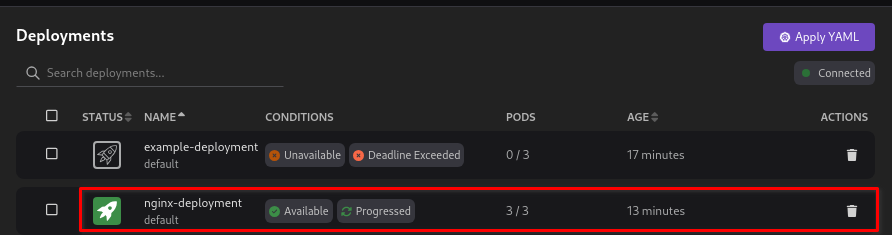
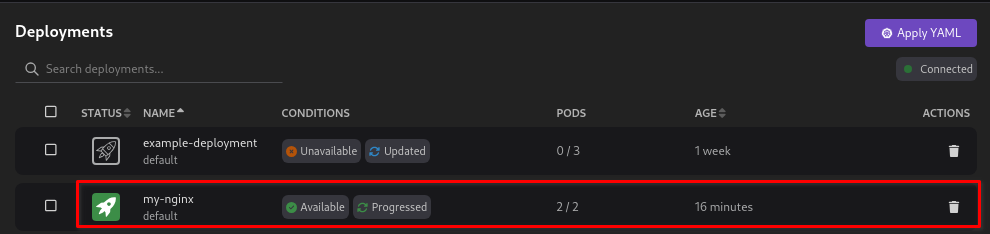
docs(website): incorporated SME comments Signed-off-by: Shipra Singh <shipsing@redhat.com>

diff --git a/website/tutorial/deploying-a-kubernetes-application.md b/website/tutorial/deploying-a-kubernetes-application.md
@@ -13,57 +13,67 @@ This tutorial covers the following end-to-end tasks required to deploy an applic
 - Set the Kubernetes context
 - Creating a deployment
 - Creating a service
+- Verifying the service: port forwarding
 
 If you have multiple Kubernetes contexts, you must set the correct context in which you want to create your application resources. Within a Kubernetes cluster, you can access the application by its internal IP address. However, if you want to make your application accessible from an outside network, you must expose the pod containing your application as a Kubernetes service.
+To access the service running on your Kubernetes cluster, you can use one of the following options:
+
+- Port forwarding with CLI (covered in this tutorial)
+- [Create an ingress controller with UI](/docs/kind/building-an-image-and-testing-it-in-kind)
 
 ## Before you begin
 
-- [Installed Podman Desktop application](/docs/installation).
-- [A Podman machine](/docs/podman/creating-a-podman-machine).
+Make sure you have:
+
+- [Installed Podman Desktop](/docs/installation).
+- [A running Podman machine](/docs/podman/creating-a-podman-machine).
 - [A running Kubernetes cluster](/docs/kind/creating-a-kind-cluster).
-- A deployment YAML configuration for use. Create a `Deployment` file using the following code, if you do not have one on your machine:
+- A developer role.
+- Created a `Deployment` file using the following code, if you do not have one on your machine:
 
 ```yaml
 apiVersion: apps/v1
 kind: Deployment
 metadata:
-  name: nginx-deployment
+  name: my-nginx
 spec:
-  replicas: 3
   selector:
     matchLabels:
-      app: nginx
+      run: my-nginx
+  replicas: 2
   template:
     metadata:
       labels:
-        app: nginx
+        run: my-nginx
     spec:
       containers:
-        - name: nginx-container
-          image: nginx:latest
+        - name: my-nginx
+          image: nginx
           ports:
-            - containerPort: 8080
+            - containerPort: 80
 ```
 
-This YAML configuration creates a deployment running three NGINX pods.
+This YAML configuration creates a `my-nginx` deployment running two Nginx pods.
 
-- A service YAML configuration for use. Create a `Service` file using the following code, if you do not have one on your machine:
+- Created a `Service` file using the following code, if you do not have one on your machine:
 
 ```yaml
 apiVersion: v1
 kind: Service
 metadata:
-  name: my-service
+  name: my-nginx
+  labels:
+    run: my-nginx
 spec:
-  selector:
-    app.kubernetes.io/name: MyApp
   ports:
-    - protocol: TCP
-      port: 80
-      targetPort: 8080
+    - port: 80
+      protocol: TCP
+      targetPort: 80
+  selector:
+    run: my-nginx
 ```
 
-This YAML configuration creates a new service named `my-service` with the default ClusterIP service type. The service listens for client requests on port `80` and then forwards those requests to port `8080` on the container.
+This YAML configuration creates a service named `my-nginx` to expose the Nginx deployment outside the Kubernetes cluster. The service listens client requests on port `80` and then forwards them to a target port `80` on the container.
 
 ## Setting the Kubernetes context
 
@@ -79,11 +89,11 @@ This YAML configuration creates a new service named `my-service` with the defaul
 3. Select the YAML configuration file and click **Open**. A successful operation notification opens.
    ![notification](img/applied-yaml.png)
 4. Click **OK**.
-5. View the newly created deployment on the same page.
+5. View the newly created `my-nginx` deployment on the same page.
    ![new deployment](img/new-deployment.png)
 6. Restart the Podman Desktop application.
 7. Go to **Pods** from the left navigation pane.
-8. View the three newly created `nginx-deplyment` pods.
+8. View the two newly created `my-nginx` pods.
    ![new running pods](img/running-pods.png)
 
 ## Creating a service
@@ -94,3 +104,16 @@ This YAML configuration creates a new service named `my-service` with the defaul
 4. Click **OK**.
 5. View the newly created service on the same page.
    ![new service object](img/new-service-object.png)
+
+## Verifying the service: port forwarding
+
+1. Use the `kubectl port-forward` command to forward a local port to the service:
+
+```sh
+kubectl port-forward service/my-nginx 20000:80
+```
+
+2. Open a web browser.
+3. Enter the local host address, that is, _http://localhost:20000_.
+4. View the Nginx welcome page.
+   ![welcome page](img/welcome-page.png)

diff --git a/website/tutorial/running-a-kubernetes-cluster.md b/website/tutorial/running-a-kubernetes-cluster.md
@@ -15,16 +15,19 @@ This tutorial covers the following end-to-end tasks required to run a Kubernetes
 - Applicable on Windows: Configure Podman on WSL
 - Creating and running a Kubernetes cluster
 
-You can use extensions, such as Kind, MiniKube, and others to start a local Kubernetes development cluster. When you have a running Kubernetes cluster, you can easily develop and test Kubernetes applications before deploying them to production. This tutorial focuses on creating a Kubernetes cluster using the Minikube extension.
+You can use extensions, such as Kind and Minikube to start a local Kubernetes development cluster. When you have a running Kubernetes cluster, you can easily develop and test Kubernetes applications before deploying them to production. This tutorial focuses on creating a Kubernetes cluster using the Minikube extension.
 
 ## Before you begin
 
-- [Installed Podman Desktop application](/docs/installation)
-- [A Podman machine](/docs/podman/creating-a-podman-machine)
+Make sure you have:
+
+- [Installed Podman Desktop](/docs/installation).
+- [A running Podman machine](/docs/podman/creating-a-podman-machine).
+- A developer role.
 
 ## Installing the extension
 
-1. Go to **extensions > Catalog**.
+1. Go to **Extensions > Catalog**.
 2. Click the **Install** icon to install the Minikube extension.
    ![install the extension](img/install-icon.png)
 
@@ -64,3 +67,9 @@ To use the Minikube tool on Windows, you must have a Podman machine running in r
 5. Click **Go back to resources**.
 6. View that your Minikube cluster is running and a new minikube context is added in the status bar.
    ![Kube context added](img/new-context-added.png)
+
+## Additional resources
+
+- [Working with a Kind cluster](/docs/kind)
+- [Working with a Minikube cluster](/docs/minikube)
+- [Working with a Lima cluster](/docs/lima)

diff --git a/website/tutorial/running-a-pod-using-a-container-docker-file.md b/website/tutorial/running-a-pod-using-a-container-docker-file.md
@@ -44,9 +44,12 @@ When creating a container, you can set the following configurations:
 
 ## Before you begin
 
-- [Installed Podman Desktop application](/docs/installation).
-- [A Podman machine](/docs/podman/creating-a-podman-machine).
-- A docker or container file to use. Create a docker file using the following code, if you do not have one on your machine:
+Make sure you have:
+
+- [Installed Podman Desktop](/docs/installation).
+- [A running Podman machine](/docs/podman/creating-a-podman-machine).
+- A developer role.
+- Created a docker file using the following code, if you do not have one on your machine:
 
 ```dockerfile
 # syntax=docker/dockerfile:1
